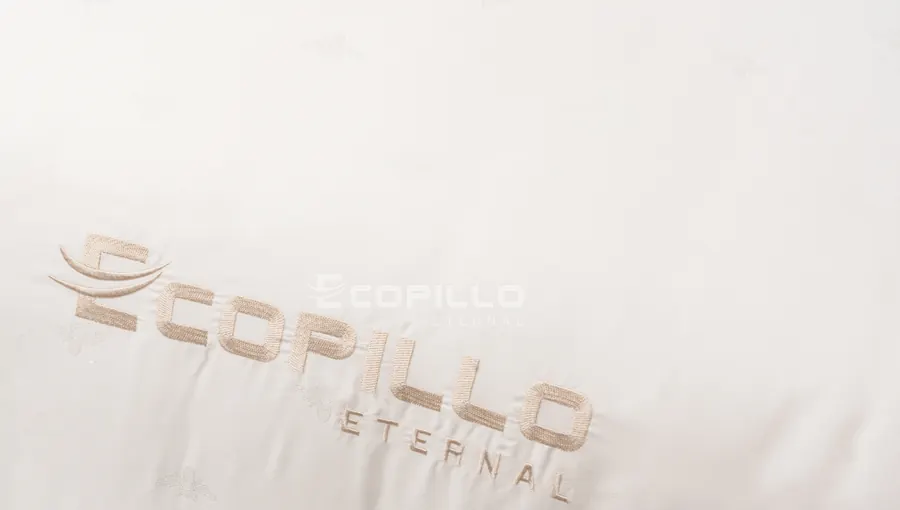
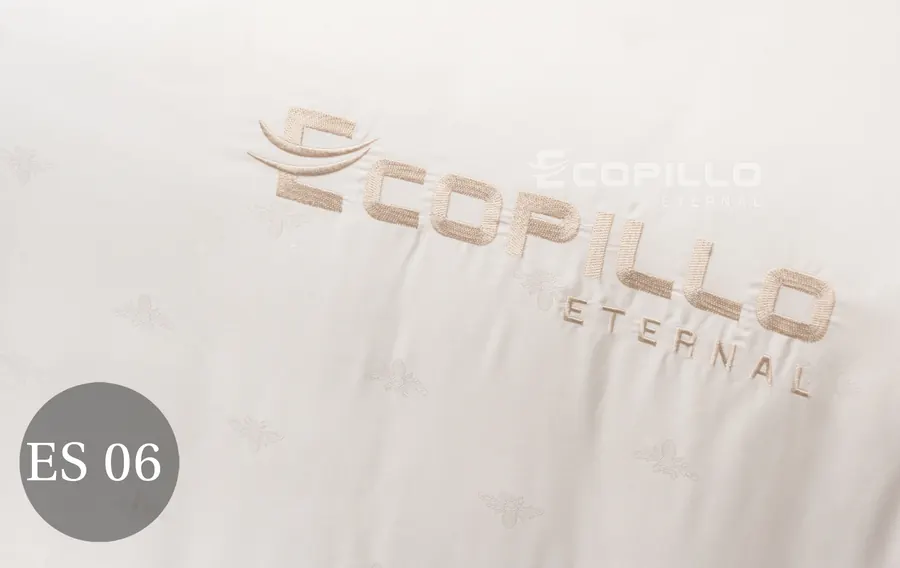
feat: theo trả lời Ecopillo 23/10 (mục 8, 39, 42)
- Mục 8: ảnh Dệt Jacquard giữ nhãn tròn "ES 06" ở góc
- Mục 39: ảnh phòng khách sạn lấy từ trang khách sạn web cũ (bỏ ảnh bộ gia đình) ở trang chủ và trang Khách sạn và dự án; tải trước ảnh bìa mới
- Mục 42: thêm đệm lò xo túi Eco Luxe và đệm bông Nano chần foam, giá theo kích thước, độ dày như web cũ; link cũ giữ nguyên, thêm vào danh mục và bảng giá trang chủ

diff --git a/src/data/products.ts b/src/data/products.ts
@@ -202,6 +202,82 @@ const GAM_THUAN_KHIET: Product = {
   },
 }
 
+/**
+ * Mục 42 (Ecopillo trả lời 23/10/2026): thêm đệm lò xo Eco Luxe và đệm bông Nano, giá, thông số, ảnh theo web cũ
+ * (/san-pham/dem-lo-xo-tui-cao-cap-eco-luxe/, /san-pham/dem-bong-nano-chan-foam/, lấy ngày 23/10/2026).
+ */
+const ECO_LUXE: Product = {
+  slug: 'dem-lo-xo-tui-cao-cap-eco-luxe',
+  name: 'Đệm lò xo túi cao cấp Eco Luxe',
+  category: 'dem',
+  summary:
+    'Lò xo túi độc lập, mặt Pillow Top êm vừa: hợp đa số người dùng, kể cả trẻ nhỏ, người lớn tuổi và người hay đau lưng.',
+  min: 10_230_000,
+  max: 15_180_000,
+  imageNote: 'Ảnh đệm lò xo Eco Luxe',
+  gallery: [productImage('dem-lo-xo-tui-cao-cap-eco-luxe-2', 'Đệm lò xo túi cao cấp Eco Luxe, mặt Pillow Top')],
+  details: [
+    'Lõi lò xo túi độc lập cao 16 cm, thép 2,5 mm, mỗi lò xo xoắn 6 vòng, đường kính 6,5 cm.',
+    'Lớp topper tăng tiện nghi: foam PU K50 siêu đàn hồi dày 4 cm, vải gấm xốp nhập khẩu 400 g/m² chần PU.',
+    'May viền 4 đai thêu chữ Ecopillo, dễ bê khi di chuyển. Đóng gói hút chân không, cuộn tròn.',
+    'Nhận đặt theo kích thước riêng.',
+  ],
+  specs: [
+    { label: 'Độ dày', value: '28 cm' },
+    { label: 'Mặt đệm', value: 'Pillow Top 3 viền' },
+    { label: 'Lõi', value: 'Lò xo túi độc lập 16 cm' },
+    { label: 'Đóng gói', value: 'Hút chân không, cuộn tròn' },
+  ],
+  variants: {
+    sizes: ['120×190', '160×200', '180×200', '200×220'],
+    thicknesses: ['28 cm'],
+    prices: {
+      '120×190|28 cm': 10_230_000,
+      '160×200|28 cm': 11_860_000,
+      '180×200|28 cm': 12_950_000,
+      '200×220|28 cm': 15_180_000,
+    },
+  },
+}
+
+const NANO_CHAN_FOAM: Product = {
+  slug: 'dem-bong-nano-chan-foam',
+  name: 'Đệm bông Nano chần foam',
+  category: 'dem',
+  summary:
+    'Đệm bông ép gập 2, mặt chần foam: vững như đệm bông truyền thống mà mặt nằm êm hơn, hợp người lớn tuổi và trẻ nhỏ.',
+  min: 4_644_000,
+  max: 9_730_000,
+  imageNote: 'Ảnh đệm bông Nano chần foam',
+  gallery: [productImage('dem-bong-nano-chan-foam-2', 'Đệm bông Nano chần foam trải trên giường')],
+  details: [
+    'Vỏ vải gấm xốp định lượng cao, chần thêm một lớp foam K43 êm.',
+    'Lõi bông Polyester nguyên sinh ép nhiệt cao tần; lớp giữ lõi là bông trải đứng nên đàn hồi và thoáng khí hơn.',
+    'Gập 2, dễ di chuyển và cất gọn. Màu sáng trung tính, dễ vệ sinh, dễ phối chăn ga.',
+    'Đạt ISO 9001:2015 và QCVN 01:2017/BCT.',
+  ],
+  specs: [
+    { label: 'Độ dày', value: '12 cm · 18 cm' },
+    { label: 'Vỏ', value: 'Gấm xốp chần foam K43' },
+    { label: 'Lõi', value: 'Bông ép, trải đứng' },
+    { label: 'Kiểu', value: 'Gập 2' },
+  ],
+  variants: {
+    sizes: ['120×190', '160×200', '180×200', '200×220'],
+    thicknesses: ['12 cm', '18 cm'],
+    prices: {
+      '120×190|12 cm': 4_644_000,
+      '120×190|18 cm': 6_483_000,
+      '160×200|12 cm': 5_562_000,
+      '160×200|18 cm': 7_498_000,
+      '180×200|12 cm': 6_066_000,
+      '180×200|18 cm': 8_103_000,
+      '200×220|12 cm': 7_257_000,
+      '200×220|18 cm': 9_730_000,
+    },
+  },
+}
+
 const MATTRESS_NAMES: Readonly<Record<string, string>> = {
   'Eco Foam đa tầng': 'Đệm Eco Foam đa tầng',
   'Lò xo Eco Royal': 'Đệm lò xo Eco Royal',
@@ -244,6 +320,8 @@ const PRODUCT_PHOTOS = new Set([
   'dem-lo-xo-eco-royal',
   'dem-cao-su-thien-nhien-eco-latex',
   'dem-bong-gam-thuan-khiet',
+  'dem-lo-xo-tui-cao-cap-eco-luxe',
+  'dem-bong-nano-chan-foam',
 ])
 
 const withPhoto = (p: Product): Product =>
@@ -253,7 +331,9 @@ export const PRODUCTS: readonly Product[] = [
   ...COLLECTIONS.map(collectionProduct),
   ...essentialProducts,
   GAM_THUAN_KHIET,
+  NANO_CHAN_FOAM,
   ...mattressProducts,
+  ECO_LUXE,
 ].map(withPhoto)
 
 export const productBySlug = (slug: string | undefined): Product | undefined => PRODUCTS.find((p) => p.slug === slug)

diff --git a/src/data/links.ts b/src/data/links.ts
@@ -158,6 +158,8 @@ const PRODUCT_SLUGS: Readonly<Record<string, string>> = {
   'chan-long-vu-tu-nhien': 'chan-long-vu-tu-nhien',
   'topper-micro-fiber': 'tam-topper-micro-fiber',
   'dem-bong-gam-thuan-khiet': 'dem-bong-gam-thuan-khiet',
+  'dem-lo-xo-tui-cao-cap-eco-luxe': 'dem-lo-xo-tui-cao-cap-eco-luxe',
+  'dem-bong-nano-chan-foam': 'dem-bong-nano-chan-foam',
   'dem-lo-xo-tui-doc-lap': 'dem-lo-xo-tui-doc-lap-ecopillo',
   'dem-eco-foam-da-tang': 'dem-eco-foam-da-tang-ecopillo',
   'dem-lo-xo-eco-royal': 'dem-lo-xo-cao-cap-eco-royal',
@@ -242,9 +244,9 @@ export const LISTINGS: Readonly<Record<string, ListingPreset>> = {
   },
   '/danh-muc-san-pham/san-pham/dem-lo-xo/': {
     title: 'Đệm lò xo',
-    description: 'Đệm lò xo Ecopillo: lò xo túi độc lập, Eco Royal. Giá theo kích thước và độ dày, nằm thử tại hệ thống phân phối.',
+    description: 'Đệm lò xo Ecopillo: lò xo túi độc lập, Eco Luxe, Eco Royal. Giá theo kích thước và độ dày, nằm thử tại hệ thống phân phối.',
     category: 'dem',
-    products: ['dem-lo-xo-tui-doc-lap', 'dem-lo-xo-eco-royal'],
+    products: ['dem-lo-xo-tui-doc-lap', 'dem-lo-xo-tui-cao-cap-eco-luxe', 'dem-lo-xo-eco-royal'],
   },
   '/danh-muc-san-pham/san-pham/dem-cao-su/': {
     title: 'Đệm cao su',
@@ -254,9 +256,9 @@ export const LISTINGS: Readonly<Record<string, ListingPreset>> = {
   },
   '/danh-muc-san-pham/san-pham/dem-bong-ep/': {
     title: 'Đệm bông ép',
-    description: 'Đệm bông ép Gấm Thuần Khiết của Ecopillo, gập 3 gọn gàng. Giá theo kích thước và độ dày.',
+    description: 'Đệm bông ép Ecopillo: Gấm Thuần Khiết gập 3, bông Nano chần foam gập 2. Giá theo kích thước và độ dày.',
     category: 'dem',
-    products: ['dem-bong-gam-thuan-khiet'],
+    products: ['dem-bong-gam-thuan-khiet', 'dem-bong-nano-chan-foam'],
   },
   '/danh-muc-san-pham/san-pham/dem-foam/': {
     title: 'Đệm foam',
@@ -305,11 +307,9 @@ export const OLD_SITE_REDIRECTS: Readonly<Record<string, string>> = {
   '/san-pham/bo-ga-chun-eco-flora-ef126/': COLLECTION_PATHS['eco-flora'],
   // Sản phẩm lẻ web mới chưa có [XÁC NHẬN]
   '/san-pham/dem-foam-cao-cap-nano-comfort/': '/danh-muc-san-pham/san-pham/dem-foam/',
-  '/san-pham/dem-lo-xo-tui-cao-cap-eco-luxe/': '/danh-muc-san-pham/san-pham/dem-lo-xo/',
   '/san-pham/dem-lo-xo-cao-cap-eco-premium/': '/danh-muc-san-pham/san-pham/dem-lo-xo/',
   '/san-pham/dem-lo-xo-eco-fresh/': '/danh-muc-san-pham/san-pham/dem-lo-xo/',
   '/san-pham/dem-bong-ep-cao-cap-mix-latex/': '/danh-muc-san-pham/san-pham/dem-bong-ep/',
-  '/san-pham/dem-bong-nano-chan-foam/': '/danh-muc-san-pham/dem-ecopillo/',
   '/san-pham/dem-tron-cao-cap-ecopillo/': '/danh-muc-san-pham/dem-ecopillo/',
   '/san-pham/ruot-goi-dau-ecopillo/': '/danh-muc-san-pham/san-pham/ruot-goi-nam-cao-cap/',
   '/san-pham/chan-he-e-cool-ecopillo/': COLLECTION_PATHS['chan-he-lyocell'],

diff --git a/src/pages/HotelPage.tsx b/src/pages/HotelPage.tsx
@@ -6,9 +6,9 @@ import { Icon } from '../components/ui/Icon'
 import { Breadcrumb } from '../components/ui/PageHero'
 import { buttonClass, Container, FillIn } from '../components/ui/primitives'
 import { CONTACT } from '../data/brand'
-import { patternImage, productImage, type ImageSource } from '../data/catalog'
+import { productImage, type ImageSource } from '../data/catalog'
 import { HOTEL_PARTNERS } from '../data/content'
-import { HOTEL_BENEFITS, HOTEL_EYEBROW, HOTEL_INTRO, HOTEL_INTRO_HEADING } from '../data/hotel'
+import { HOTEL_BENEFITS, HOTEL_EYEBROW, HOTEL_INTRO, HOTEL_INTRO_HEADING, HOTEL_PHOTOS } from '../data/hotel'
 import { productsUrl } from '../data/links'
 import { usePageMeta } from '../hooks/usePageMeta'
 import { revealDelay } from '../lib/reveal'
@@ -33,7 +33,7 @@ const LAYERS: readonly Layer[] = [
     title: 'Ga bọc, ga phủ',
     text: 'Trắng tinh hoặc màu theo nhận diện khách sạn.',
     to: productsUrl({ 'danh-muc': 'bo-chan-ga' }),
-    image: patternImage('ES06', 'Phòng ngủ trải bộ chăn ga Eco Sweet ES06 trắng ngà'),
+    image: HOTEL_PHOTOS.sheets,
   },
   {
     title: 'Vỏ chăn, ruột chăn',
@@ -63,9 +63,9 @@ const STEPS: readonly { title: string; text: string }[] = [
   { title: 'Bổ sung, bảo hành', text: 'Bổ sung đúng mẫu khi cần, bảo hành theo hợp đồng.' },
 ]
 
-const HERO_IMAGE = patternImage('ED10', 'Bộ ga phủ Eco Doris ED10 trắng tinh, phong cách phòng khách sạn')
+const HERO_IMAGE = HOTEL_PHOTOS.hero
 const DETAIL_IMAGE = { src: '/images/details/vai-ed25.webp', alt: 'Cận chất vải Lyocell của bộ Eco Doris ED25' }
-const QUOTE_IMAGE = patternImage('ET05', 'Phòng ngủ trải bộ chăn ga Eco Tera ET05 trắng ngà')
+const QUOTE_IMAGE = HOTEL_PHOTOS.quote
 
 const twoDigits = (n: number) => String(n).padStart(2, '0')
 
@@ -100,12 +100,8 @@ function HotelHero() {
           alt={HERO_IMAGE.alt}
           fetchPriority="high"
           decoding="async"
-          className="absolute inset-0 h-full w-full object-cover object-left"
+          className="absolute inset-0 h-full w-full object-cover"
         />
-        {/* Góc phải: góc trái dưới ảnh có dấu mã mẫu in sẵn. Ảnh neo mép trái để vòng mã nằm trọn, không bị cắt nửa */}
-        <span className="absolute right-4 bottom-3 rounded-full bg-ivory/90 px-3 py-1 text-label text-deep-900 lg:right-6 lg:bottom-5">
-          Eco Doris ED10 · Trắng tinh
-        </span>
       </div>
       {/* Lề trái bằng lề Container của trang để chữ thẳng hàng với các phần bên dưới */}
       <div className="flex flex-col justify-center px-5 pt-7 pb-10 sm:px-8 lg:py-16 lg:pr-12 lg:pl-[max(2.5rem,calc((100vw-1240px)/2+2.5rem))]">

diff --git a/src/components/home/Essentials.tsx b/src/components/home/Essentials.tsx
@@ -14,7 +14,7 @@ import { formatRange, formatVND } from '../../lib/format'
 import { Icon } from '../ui/Icon'
 import { Placeholder } from '../ui/Placeholder'
 import { buttonClass, Container, FillIn, SectionHeading } from '../ui/primitives'
-import { PRODUCTS, productForEssential, productPath, singleOrderUrl } from '../../data/products'
+import { PRODUCTS, productBySlug, productForEssential, productPath, singleOrderUrl } from '../../data/products'
 import { PATHS, productsUrl } from '../../data/links'
 import { revealDelay } from '../../lib/reveal'
 import { scrollToElement } from '../../lib/scroll'
@@ -168,6 +168,20 @@ const mattressRow = (m: Mattress): PriceRow => {
   }
 }
 
+/** Đệm thêm theo mục 42 (23/10/2026): dữ liệu ở products.ts, ghi chú ngắn cho bảng giá */
+const productRow = (slug: string, name: string, note: string): PriceRow[] => {
+  const product = productBySlug(slug)
+  if (!product) return []
+  return [{ name, note, price: `từ ${formatVND(product.min)}`, productTo: productPath(product), orderTo: singleOrderUrl(product) }]
+}
+
+const MATTRESS_ROWS: readonly PriceRow[] = [
+  ...MATTRESSES.slice(0, 1).map(mattressRow),
+  ...productRow('dem-lo-xo-tui-cao-cap-eco-luxe', 'Lò xo túi Eco Luxe', 'Mặt Pillow Top, lõi lò xo túi 16 cm, dày 28 cm'),
+  ...MATTRESSES.slice(1).map(mattressRow),
+  ...productRow('dem-bong-nano-chan-foam', 'Bông Nano chần foam', 'Bông ép gập 2, mặt chần foam êm'),
+]
+
 /** Thứ tự: ruột gối, ruột chăn, chăn hè & topper, đệm (khớp hàng tab điện thoại) */
 const PRICE_GROUPS: readonly PriceGroup[] = [
   ...ESSENTIALS.map((g) => ({ id: g.id as EssentialTab, title: g.title, subtitle: g.subtitle, rows: g.items.map(essentialRow) })),
@@ -175,7 +189,7 @@ const PRICE_GROUPS: readonly PriceGroup[] = [
     id: 'dem',
     title: 'Đệm',
     subtitle: 'Đặt online, hoặc nằm thử tại cửa hàng Ecopillo ở Hà Nội và TP. HCM',
-    rows: MATTRESSES.map(mattressRow),
+    rows: MATTRESS_ROWS,
   },
 ]
 

diff --git a/src/data/hotel.ts b/src/data/hotel.ts
@@ -1,3 +1,5 @@
+import type { ImageSource } from './catalog'
+
 /**
  * Chữ giới thiệu khối khách sạn, dùng chung cho trang chủ (Hospitality) và trang Khách sạn và dự án (HotelPage).
  * Chữ của Ecopillo gửi 16/10/2026 (yêu cầu sửa mục 37, 38, 39), giữ nguyên văn.
@@ -29,3 +31,25 @@ export const HOTEL_BENEFITS: readonly string[] = [
   'Báo giá ưu đãi theo số lượng và từng hạng mục',
   'Tư vấn chất liệu theo công năng, tần suất sử dụng',
 ]
+
+/**
+ * Mục 39: ảnh phòng khách sạn lấy từ trang khách sạn của web cũ (/danh-muc-san-pham/du-an-khach-san-nha-nghi/),
+ * Ecopillo chỉ định 23/10/2026 thay ảnh bộ chăn ga gia đình. Nén bằng tools/nen-anh-khach-san-2026-10-23.py.
+ * Chưa nêu tên khách sạn: Ecopillo chưa cho phép.
+ */
+const hotelPhoto = (key: string, alt: string): ImageSource => ({
+  src: `/images/hotel/${key}.webp`,
+  srcSet: `/images/hotel/${key}-sm.webp 640w, /images/hotel/${key}.webp 1600w`,
+  alt,
+})
+
+export const HOTEL_PHOTOS = {
+  /** Đầu trang Khách sạn và dự án; tải trước trong index.html, đổi thì sửa cả ở đó */
+  hero: hotelPhoto('phong-king-cua-kinh', 'Phòng khách sạn giường đôi lớn trải chăn ga trắng Ecopillo, cửa kính nhìn ra thành phố'),
+  /** Khối khách sạn ở trang chủ */
+  home: hotelPhoto('phong-king-den-long', 'Phòng khách sạn giường đôi lớn, chăn ga gối trắng Ecopillo viền chỉ'),
+  /** Cạnh form báo giá */
+  quote: hotelPhoto('phong-twin-ho-guom', 'Phòng khách sạn hai giường đơn trải chăn ga trắng Ecopillo'),
+  /** Lớp "Ga bọc, ga phủ" ở trang Khách sạn và dự án */
+  sheets: hotelPhoto('phong-hai-giuong', 'Phòng khách sạn hai giường đôi, ga bọc và chăn trắng Ecopillo có đường viền'),
+} as const

diff --git a/src/components/home/Hospitality.tsx b/src/components/home/Hospitality.tsx
@@ -1,7 +1,6 @@
 import { Link } from 'react-router-dom'
-import { patternImage } from '../../data/catalog'
 import { HOTEL_PARTNERS } from '../../data/content'
-import { HOTEL_BENEFITS, HOTEL_EYEBROW, HOTEL_INTRO, HOTEL_INTRO_HEADING } from '../../data/hotel'
+import { HOTEL_BENEFITS, HOTEL_EYEBROW, HOTEL_INTRO, HOTEL_INTRO_HEADING, HOTEL_PHOTOS } from '../../data/hotel'
 import { PATHS } from '../../data/links'
 import { revealDelay } from '../../lib/reveal'
 import { Icon } from '../ui/Icon'
@@ -62,7 +61,7 @@ export function Hospitality() {
               tone="deep"
               className="h-full w-full"
               note="Ảnh phòng khách sạn đối tác sử dụng chăn ga Ecopillo"
-              image={patternImage('ED10', 'Bộ ga phủ Eco Doris ED10 trắng tinh, phong cách phòng khách sạn')}
+              image={HOTEL_PHOTOS.home}
               sizes="(min-width: 1024px) 600px, 100vw"
             />
           </div>

diff --git a/src/components/home/Craft.tsx b/src/components/home/Craft.tsx
@@ -143,7 +143,8 @@ export function BrandStory() {
                   note="Ảnh cận hoa văn dệt Jacquard"
                   image={staticImage('/images/details/jacquard-es06.webp', 'Logo Ecopillo thêu trên vải dệt Jacquard hoa văn chìm, bộ Eco Sweet ES06')}
                   sizes="(min-width: 1024px) 160px, (min-width: 640px) 40vw, 300px"
-                  position="30% center"
+                  // Giữ nhãn tròn "ES 06" góc dưới trái trong khung (Ecopillo trả lời 23/10/2026)
+                  position="left center"
                 />
                 <div className="p-5">
                   <Icon name="weave" size={20} className="text-brass-500" />

diff --git a/index.html b/index.html
@@ -42,7 +42,7 @@
           ['/images/about/chi-phuong-sm.webp 800w, /images/about/chi-phuong.webp 1309w', '(min-width: 1024px) 42vw, 100vw', 'all'],
         ],
         '/danh-muc-san-pham/du-an-khach-san-nha-nghi/': [
-          ['/images/patterns/ED10-sm.webp 640w, /images/patterns/ED10.webp 1600w', '(min-width: 1024px) 50vw, 100vw', 'all'],
+          ['/images/hotel/phong-king-cua-kinh-sm.webp 640w, /images/hotel/phong-king-cua-kinh.webp 1600w', '(min-width: 1024px) 50vw, 100vw', 'all'],
         ],
       }
       const path = location.pathname.endsWith('/') ? location.pathname : location.pathname + '/'

diff --git a/tools/nen-anh-khach-san-2026-10-23.py b/tools/nen-anh-khach-san-2026-10-23.py
@@ -1,0 +1,36 @@
+# -*- coding: utf-8 -*-
+"""Nén ảnh phòng khách sạn lấy từ web cũ (trang /danh-muc-san-pham/du-an-khach-san-nha-nghi/), Ecopillo chỉ định 23/10/2026
+(mục 39: thay ảnh "hàng gia đình" đang dùng ở khối khách sạn).
+Chạy từ gốc project: python3 -I tools/nen-anh-khach-san-2026-10-23.py images/web-cu-khach-san public/images/hotel
+Ảnh gốc trong images/ không lên git. Mỗi ảnh gốc có logo Ecopillo ở giữa mép trên: cắt bỏ dải đó (logo đã có ở thanh đầu trang)."""
+import os
+import sys
+
+from PIL import Image
+
+SRC, OUT = sys.argv[1], sys.argv[2]
+
+# Tên file gốc -> (tên file web, phần bỏ ở mép trên theo tỉ lệ chiều cao)
+PHOTOS = {
+    'Chan-ga-goi-dem-khach-san-Ecopillo.jpg': ('phong-king-cua-kinh', 0.13),
+    'Chan-ga-goi-khach-san.jpg': ('phong-king-den-long', 0.13),
+    'Setup-chan-ga-goi-khach-san.jpg': ('phong-twin-ho-guom', 0.10),
+    'Chan-ga-goi-khach-san-Ecopillo.jpg': ('phong-hai-giuong', 0.11),
+}
+
+
+def save(im: Image.Image, name: str, width: int) -> None:
+    scale = width / im.width
+    if scale < 1:
+        im = im.resize((round(im.width * scale), round(im.height * scale)), Image.LANCZOS)
+    dst = os.path.join(OUT, name)
+    im.save(dst, 'WEBP', quality=78, method=6)
+    print(f'{name:36s} {im.size[0]}x{im.size[1]} {os.path.getsize(dst) // 1024} KB')
+
+
+os.makedirs(OUT, exist_ok=True)
+for src, (name, top) in PHOTOS.items():
+    im = Image.open(os.path.join(SRC, src)).convert('RGB')
+    im = im.crop((0, round(im.height * top), im.width, im.height))
+    save(im, f'{name}.webp', 1600)
+    save(im, f'{name}-sm.webp', 640)

diff --git a/tools/nen-anh-dem-2026-10-23.py b/tools/nen-anh-dem-2026-10-23.py
@@ -1,0 +1,33 @@
+# -*- coding: utf-8 -*-
+"""Nén ảnh hai đệm lấy từ web cũ (mục 42, Ecopillo trả lời 23/10/2026: giá, thông số, ảnh theo web cũ).
+Chạy từ gốc project: python3 -I tools/nen-anh-dem-2026-10-23.py images/web-cu-dem public/images/products
+Ảnh gốc trong images/ không lên git. Tên file web theo mã sản phẩm trong src/data/products.ts."""
+import os
+import sys
+
+from PIL import Image
+
+SRC, OUT = sys.argv[1], sys.argv[2]
+
+# Tên file gốc -> tên file web (không đuôi)
+PHOTOS = {
+    'Dem-lo-xo-tui-cao-cap-Eco-Luxe-scaled.jpg': 'dem-lo-xo-tui-cao-cap-eco-luxe',
+    'Eco-Luxe-scaled.jpg': 'dem-lo-xo-tui-cao-cap-eco-luxe-2',
+    'Dem-bong-nano-chan-foam-Ecopillo.jpg': 'dem-bong-nano-chan-foam',
+    'Dem-bong-nano-chan-foam.jpg': 'dem-bong-nano-chan-foam-2',
+}
+
+
+def save(im: Image.Image, name: str, width: int) -> None:
+    scale = width / max(im.size)
+    if scale < 1:
+        im = im.resize((round(im.width * scale), round(im.height * scale)), Image.LANCZOS)
+    dst = os.path.join(OUT, name)
+    im.save(dst, 'WEBP', quality=78, method=6)
+    print(f'{name:44s} {im.size[0]}x{im.size[1]} {os.path.getsize(dst) // 1024} KB')
+
+
+for src, name in PHOTOS.items():
+    im = Image.open(os.path.join(SRC, src)).convert('RGB')
+    save(im, f'{name}.webp', 1600)
+    save(im, f'{name}-sm.webp', 640)

diff --git a/tools/nen-anh-khach-gui-2026-10-16.py b/tools/nen-anh-khach-gui-2026-10-16.py
@@ -30,8 +30,9 @@ def crop_frac(im, l, t, r, b):
 dm = crop_frac(load('1792126765039'), 0.20, 0.13, 0.86, 0.80)
 save(dm, 'details/duong-may-ed25.webp', 900)
 
-# Ô "Dệt Jacquard" (mục 8): ga phủ ES06, cắt bỏ nhãn tròn "ES 06" góc dưới trái
-jq = crop_frac(Image.open(glob.glob(os.path.join(SRC, '*Eco Sweet ES06*'))[0]).convert('RGB'), 0.18, 0.10, 0.98, 0.78)
+# Ô "Dệt Jacquard" (mục 8): ga phủ ES06. Giữ nhãn tròn "ES 06" ở góc dưới trái (Ecopillo trả lời 23/10/2026,
+# thay cho quyết định cắt nhãn 17/10): khung cắt ôm cả vòng nhãn và logo thêu
+jq = crop_frac(Image.open(glob.glob(os.path.join(SRC, '*Eco Sweet ES06*'))[0]).convert('RGB'), 0.02, 0.28, 0.76, 0.98)
 save(jq, 'details/jacquard-es06.webp', 900)
 
 # Văn phòng, chi nhánh, đại lý (mục 14–23). Ảnh đầu là ảnh đại diện.
